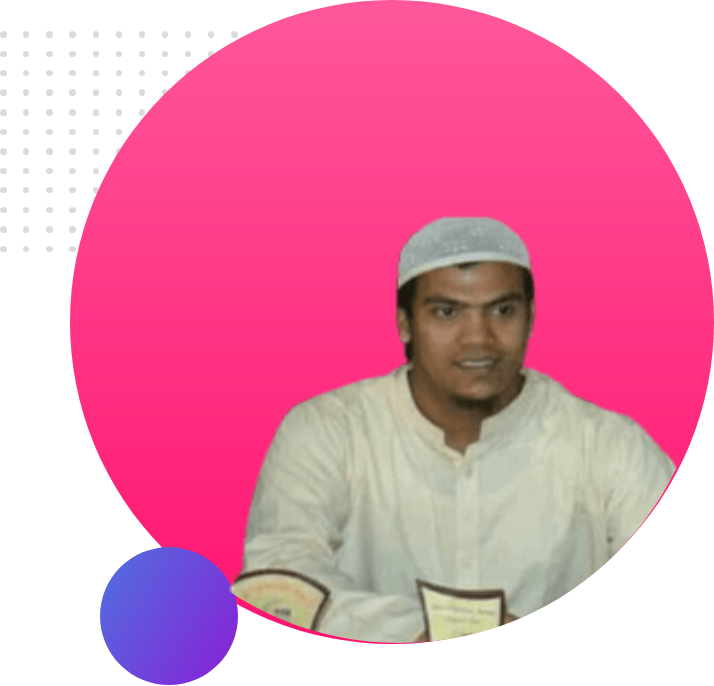
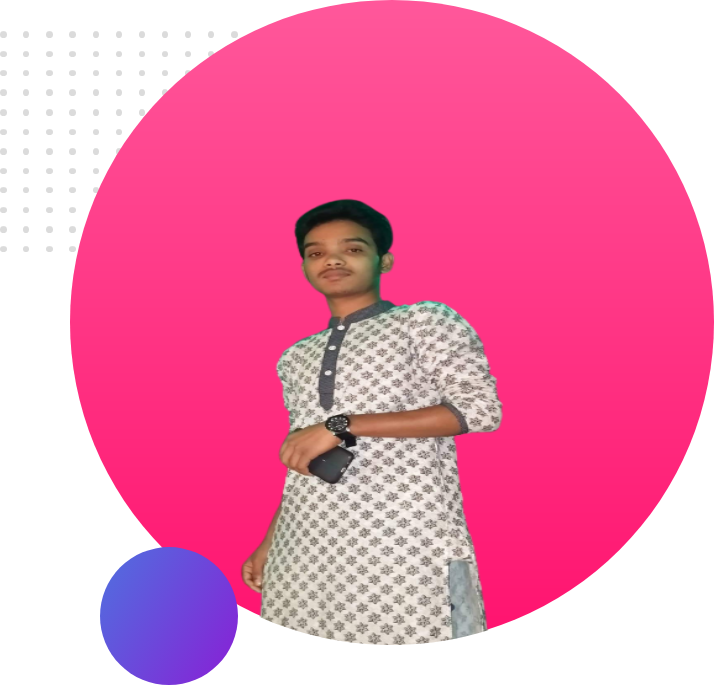
header part send

Changed region(s): [[0.3081, 0.2755, 0.9552, 0.949]]

diff --git a/index.html b/index.html
@@ -5,8 +5,23 @@
     <meta http-equiv="X-UA-Compatible" content="IE=edge">
     <meta name="viewport" content="width=device-width, initial-scale=1.0">
     <title>Professional Portfolio</title>
+    <link rel="stylesheet" href="style.css">
+    <link rel="preconnect" href="https://fonts.googleapis.com">
+    <link rel="preconnect" href="https://fonts.gstatic.com" crossorigin>
+    <link href="https://fonts.googleapis.com/css2?family=Poppins&display=swap" rel="stylesheet">
 </head>
 <body>
-    
+   <section id="header">
+        <div class="header-part">
+            <h1>Welcome to</h1>
+            <h1><span class="text-color">Rihad Hossen</span> World!</h1>
+            <h2>Full Stack Web Development with JavaScript</h2>
+            <p>Lorem ipsum, dolor sit amet consectetur adipisicing elit. Amet, temporibus quidem quam neque qui non, et voluptatem, aspernatur minima atque eos cupiditate accusantium. Libero doloribus in nisi sunt hic. Amet praesentium adipisci laborum sapiente? Blanditiis consequatur magnam quasi temporibus iste soluta aperiam deleniti! Impedit cum, voluptatem nulla, eum nemo quia iure reiciendis tempore temporibus suscipit aliquid, quas dolorum rerum accusantium ipsam adipisci possimus soluta vitae architecto deleniti quaerat. Fugit, aut.</p>
+            <a class="link-color" href="http://linkedin.com">Hire Me</a>
+        </div>
+        <div class="header-part">
+            <img src="images/header-bg.png" alt="Header photo">
+        </div>
+   </section>
 </body>
 </html>

diff --git a/style.css b/style.css
@@ -1,0 +1,28 @@
+body{
+    font-family: 'Poppins', sans-serif;
+    margin: 0;
+}
+#header{
+    display: flex;
+    background-image: url(images/top-banner.png);
+    background-repeat: no-repeat;
+}
+.header-part{
+    width: 50%;
+    padding-left: 5%;
+}
+.text-color{
+    color: coral;
+}
+.link-color{
+    padding: 10px 40px;
+    text-decoration: none;
+    background-image: linear-gradient(red, yellow);
+    border-radius: 10px;
+}
+h1{
+    font-size: 50px;
+}
+.header-part img{
+    width: 100%;
+}
